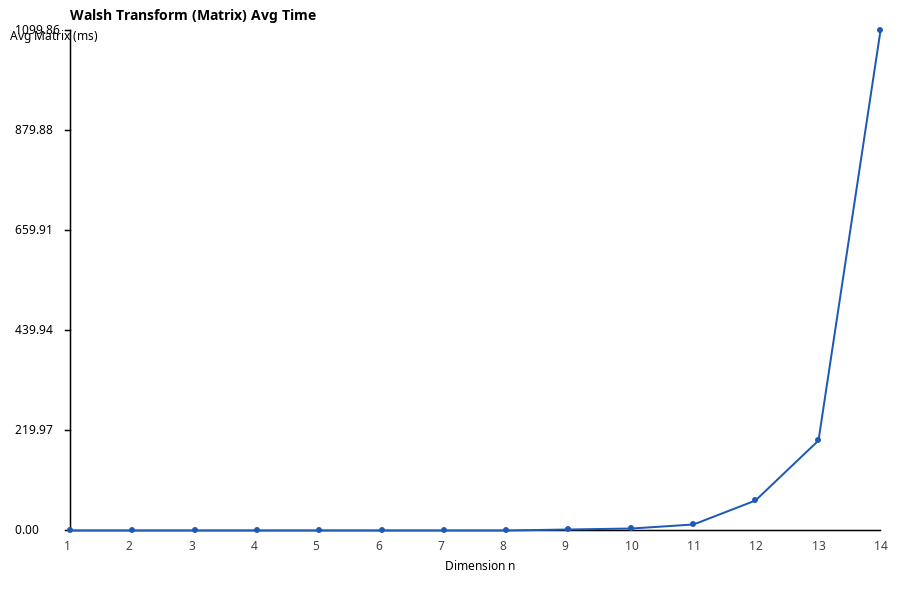
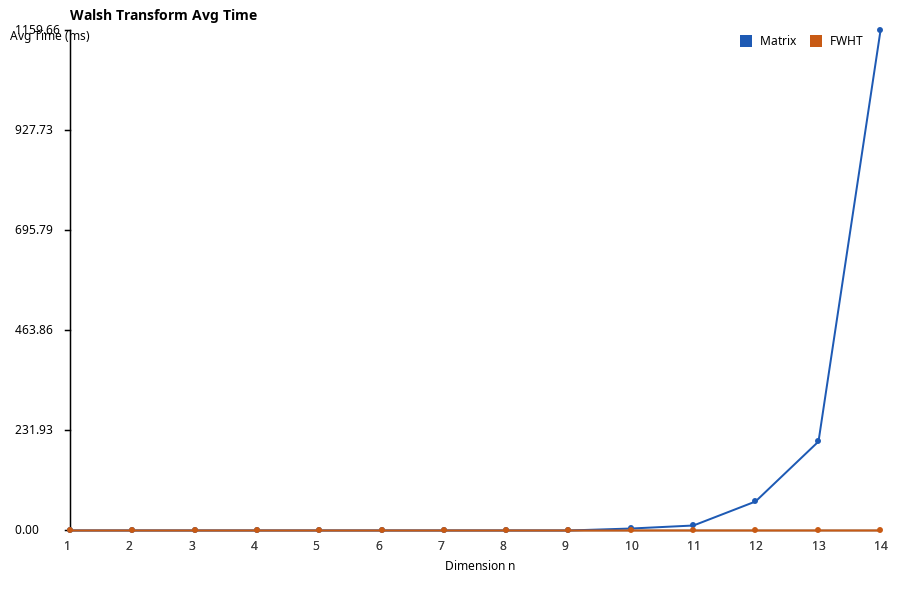
Program to compare result between FWHT and normal WHT, and benchmark FWHT

diff --git a/src/main/java/com/walshtransform/WalshTransformBenchmark.java b/src/main/java/com/walshtransform/WalshTransformBenchmark.java
@@ -38,15 +38,16 @@ public class WalshTransformBenchmark {
         System.out.printf("Random max value Q: %.4f%n", config.maxValue);
         System.out.printf("Samples per dimension: %d%n%n", config.samples);
 
-        System.out.printf("%-10s | %-12s | %-18s%n",
-            "Dimension", "States", "Avg Matrix (ms)");
-        System.out.println("------------------------------------------------------------");
+        System.out.printf("%-10s | %-12s | %-18s | %-18s%n",
+            "Dimension", "States", "Avg Matrix (ms)", "Avg FWHT (ms)");
+        System.out.println("----------------------------------------------------------------------------------");
 
         List<BenchmarkResult> results = new ArrayList<>();
 
         for (int n = config.nStart; n <= config.nEnd; n++) {
             int size = BinaryVectorUtils.checkedPowerOfTwo(n);
             double totalMatrixNs = 0.0;
+            double totalFwhtNs = 0.0;
 
             for (int i = 0; i < config.samples; i++) {
                 BlackBoxFunction f = new RandomBlackBox(n, config.maxValue);
@@ -56,17 +57,23 @@ public class WalshTransformBenchmark {
                 long endMatrix = System.nanoTime();
                 totalMatrixNs += (endMatrix - startMatrix);
 
+                long startFwht = System.nanoTime();
+                FastWalshTransformer.calculateWalshCoefficients(f);
+                long endFwht = System.nanoTime();
+                totalFwhtNs += (endFwht - startFwht);
+
             }
 
             double avgMatrixMs = totalMatrixNs / config.samples / 1_000_000.0;
+            double avgFwhtMs = totalFwhtNs / config.samples / 1_000_000.0;
 
-            results.add(new BenchmarkResult(n, size, avgMatrixMs));
+            results.add(new BenchmarkResult(n, size, avgMatrixMs, avgFwhtMs));
 
-            System.out.printf("%-10d | %-12d | %-18.4f%n",
-                    n, size, avgMatrixMs);
+            System.out.printf("%-10d | %-12d | %-18.4f | %-18.4f%n",
+                    n, size, avgMatrixMs, avgFwhtMs);
         }
 
-        System.out.println("------------------------------------------------------------");
+        System.out.println("----------------------------------------------------------------------------------");
         writeCsv(results, config.csvPath);
         writeChartImage(results, config.chartPath);
         System.out.println("Done.");
@@ -74,10 +81,11 @@ public class WalshTransformBenchmark {
 
     private static void writeCsv(List<BenchmarkResult> results, String csvPath) {
         try (BufferedWriter writer = new BufferedWriter(new FileWriter(csvPath))) {
-            writer.write("dimension,states,avg_matrix_ms");
+            writer.write("dimension,states,avg_matrix_ms,avg_fwht_ms");
             writer.newLine();
             for (BenchmarkResult result : results) {
-                writer.write(result.dimension + "," + result.states + "," + String.format("%.6f", result.avgMatrixMs));
+                writer.write(result.dimension + "," + result.states + "," + String.format("%.6f", result.avgMatrixMs)
+                    + "," + String.format("%.6f", result.avgFwhtMs));
                 writer.newLine();
             }
             System.out.println("CSV written to: " + csvPath);
@@ -95,9 +103,7 @@ public class WalshTransformBenchmark {
         int minDimension = results.get(0).dimension;
         int maxDimension = results.get(0).dimension;
         for (BenchmarkResult result : results) {
-            if (result.avgMatrixMs > maxValue) {
-                maxValue = result.avgMatrixMs;
-            }
+            maxValue = Math.max(maxValue, Math.max(result.avgMatrixMs, result.avgFwhtMs));
             if (result.dimension < minDimension) {
                 minDimension = result.dimension;
             }
@@ -131,11 +137,11 @@ public class WalshTransformBenchmark {
         g.drawLine(left, top + plotHeight, left + plotWidth, top + plotHeight);
 
         g.setFont(new Font("SansSerif", Font.BOLD, 14));
-        g.drawString("Walsh Transform (Matrix) Avg Time", left, top - 10);
+        g.drawString("Walsh Transform Avg Time", left, top - 10);
 
         g.setFont(new Font("SansSerif", Font.PLAIN, 12));
         g.drawString("Dimension n", left + (plotWidth / 2) - 30, top + plotHeight + 40);
-        g.drawString("Avg Matrix (ms)", 10, top + 10);
+        g.drawString("Avg Time (ms)", 10, top + 10);
 
         int yTicks = 5;
         for (int i = 0; i <= yTicks; i++) {
@@ -146,32 +152,23 @@ public class WalshTransformBenchmark {
             g.drawString(String.format("%.2f", value), 15, y + 4);
         }
 
-        g.setColor(new Color(30, 90, 180));
         g.setStroke(new BasicStroke(2.0f));
+        Color matrixColor = new Color(30, 90, 180);
+        Color fwhtColor = new Color(200, 90, 20);
 
-        int prevX = -1;
-        int prevY = -1;
-        for (BenchmarkResult result : results) {
-            int x;
-            if (minDimension == maxDimension) {
-                x = left + plotWidth / 2;
-            } else {
-                x = left + (int) Math.round(((result.dimension - minDimension) / (double) (maxDimension - minDimension)) * plotWidth);
-            }
-            int y = top + plotHeight - (int) Math.round((result.avgMatrixMs / maxValue) * plotHeight);
+        drawSeries(g, results, minDimension, maxDimension, maxValue, left, top, plotWidth, plotHeight,
+            matrixColor, true);
+        drawSeries(g, results, minDimension, maxDimension, maxValue, left, top, plotWidth, plotHeight,
+            fwhtColor, false);
 
-            if (prevX >= 0) {
-                g.drawLine(prevX, prevY, x, y);
-            }
-
-            g.fillOval(x - 3, y - 3, 6, 6);
-            g.setColor(Color.DARK_GRAY);
-            g.drawString(String.valueOf(result.dimension), x - 6, top + plotHeight + 20);
-            g.setColor(new Color(30, 90, 180));
-
-            prevX = x;
-            prevY = y;
-        }
+        g.setColor(matrixColor);
+        g.fillRect(left + plotWidth - 140, top + 5, 12, 12);
+        g.setColor(Color.BLACK);
+        g.drawString("Matrix", left + plotWidth - 120, top + 15);
+        g.setColor(fwhtColor);
+        g.fillRect(left + plotWidth - 70, top + 5, 12, 12);
+        g.setColor(Color.BLACK);
+        g.drawString("FWHT", left + plotWidth - 50, top + 15);
 
         g.dispose();
 
@@ -187,11 +184,55 @@ public class WalshTransformBenchmark {
         private final int dimension;
         private final int states;
         private final double avgMatrixMs;
+        private final double avgFwhtMs;
 
-        private BenchmarkResult(int dimension, int states, double avgMatrixMs) {
+        private BenchmarkResult(int dimension, int states, double avgMatrixMs, double avgFwhtMs) {
             this.dimension = dimension;
             this.states = states;
             this.avgMatrixMs = avgMatrixMs;
+            this.avgFwhtMs = avgFwhtMs;
+        }
+    }
+
+    private static void drawSeries(
+        Graphics2D g,
+        List<BenchmarkResult> results,
+        int minDimension,
+        int maxDimension,
+        double maxValue,
+        int left,
+        int top,
+        int plotWidth,
+        int plotHeight,
+        Color color,
+        boolean matrixSeries) {
+
+        g.setColor(color);
+        int prevX = -1;
+        int prevY = -1;
+
+        for (BenchmarkResult result : results) {
+            int x;
+            if (minDimension == maxDimension) {
+                x = left + plotWidth / 2;
+            } else {
+                x = left + (int) Math.round(((result.dimension - minDimension)
+                    / (double) (maxDimension - minDimension)) * plotWidth);
+            }
+            double value = matrixSeries ? result.avgMatrixMs : result.avgFwhtMs;
+            int y = top + plotHeight - (int) Math.round((value / maxValue) * plotHeight);
+
+            if (prevX >= 0) {
+                g.drawLine(prevX, prevY, x, y);
+            }
+
+            g.fillOval(x - 3, y - 3, 6, 6);
+            g.setColor(Color.DARK_GRAY);
+            g.drawString(String.valueOf(result.dimension), x - 6, top + plotHeight + 20);
+            g.setColor(color);
+
+            prevX = x;
+            prevY = y;
         }
     }
 

diff --git a/src/main/java/com/walshtransform/WalshTransformFwhtCheck.java b/src/main/java/com/walshtransform/WalshTransformFwhtCheck.java
@@ -1,0 +1,118 @@
+package com.walshtransform;
+
+import java.util.Arrays;
+import java.util.Scanner;
+
+public final class WalshTransformFwhtCheck {
+    private static final double DEFAULT_EPSILON = 1e-12;
+
+    private WalshTransformFwhtCheck() {
+        // Utility class; prevent instantiation.
+    }
+
+    public static void main(String[] args) {
+        Scanner scanner = new Scanner(System.in);
+
+        int n;
+        double maxValue;
+        double epsilon;
+
+        if (args.length >= 2) {
+            n = Integer.parseInt(args[0]);
+            maxValue = Double.parseDouble(args[1]);
+            epsilon = (args.length >= 3) ? Double.parseDouble(args[2]) : DEFAULT_EPSILON;
+        } else {
+            System.out.print("Input dimension (n): ");
+            n = scanner.nextInt();
+
+            System.out.print("Input maximum value (Q): ");
+            maxValue = scanner.nextDouble();
+            scanner.nextLine();
+
+            System.out.print("Input epsilon (press Enter for default " + DEFAULT_EPSILON + "): ");
+            String epsilonInput = scanner.nextLine();
+            epsilon = epsilonInput.isBlank() ? DEFAULT_EPSILON : Double.parseDouble(epsilonInput);
+        }
+
+        BlackBoxFunction f = new RandomBlackBox(n, maxValue);
+        double[] matrixWeights = WalshTransformer.computeWeights(f);
+        double[] fwhtWeights = FastWalshTransformer.calculateWalshCoefficients(f);
+
+        int totalStates = matrixWeights.length;
+        ComparisonResult result = compare(matrixWeights, fwhtWeights, epsilon);
+
+        System.out.println("\n--- FWHT vs Matrix Walsh Transform ---");
+        System.out.println("Dimension: " + n + ", states: " + totalStates);
+        System.out.println("Epsilon: " + epsilon);
+
+        System.out.printf("\n%-10s | %-20s | %-20s | %-10s%n",
+            "Index k", "Matrix Method", "FWHT Method", "Status");
+        System.out.println("----------------------------------------------------------------------------------");
+
+        int displayLimit = Math.min(totalStates, 20);
+        boolean isCorrect = true;
+        for (int k = 0; k < totalStates; k++) {
+            double diff = Math.abs(matrixWeights[k] - fwhtWeights[k]);
+            boolean match = diff < epsilon;
+            if (!match) {
+                isCorrect = false;
+            }
+
+            if (k < displayLimit) {
+                System.out.printf("%-10d | %-20.10f | %-20.10f | %-10s%n",
+                    k, matrixWeights[k], fwhtWeights[k], match ? "MATCH" : "FAIL");
+            }
+        }
+
+        if (totalStates > displayLimit) {
+            System.out.println("... and " + (totalStates - displayLimit) + " other coefficients.");
+        }
+
+        System.out.println("----------------------------------------------------------------------------------");
+        System.out.println("RESULT: " + (isCorrect ? "SUCCESS - Both methods match!" : "FAILURE - There are discrepancies!"));
+        System.out.println("Max difference: " + result.maxDiff + " at index " + result.maxDiffIndex);
+
+        scanner.close();
+    }
+
+    private static ComparisonResult compare(double[] matrixWeights, double[] fwhtWeights, double epsilon) {
+        int size = matrixWeights.length;
+        if (fwhtWeights.length != size) {
+            throw new IllegalArgumentException("weight arrays must have the same length");
+        }
+
+        boolean match = true;
+        double maxDiff = 0.0;
+        int maxDiffIndex = -1;
+        int[] mismatches = new int[size];
+        int mismatchCount = 0;
+
+        for (int i = 0; i < size; i++) {
+            double diff = Math.abs(matrixWeights[i] - fwhtWeights[i]);
+            if (diff > maxDiff) {
+                maxDiff = diff;
+                maxDiffIndex = i;
+            }
+            if (diff > epsilon) {
+                match = false;
+                mismatches[mismatchCount++] = i;
+            }
+        }
+
+        return new ComparisonResult(match, maxDiff, maxDiffIndex, Arrays.copyOf(mismatches, mismatchCount));
+    }
+
+    private static final class ComparisonResult {
+        private final boolean match;
+        private final double maxDiff;
+        private final int maxDiffIndex;
+        private final int[] mismatchIndices;
+
+        private ComparisonResult(boolean match, double maxDiff, int maxDiffIndex, int[] mismatchIndices) {
+            this.match = match;
+            this.maxDiff = maxDiff;
+            this.maxDiffIndex = maxDiffIndex;
+            this.mismatchIndices = mismatchIndices;
+        }
+    }
+}

diff --git a/README.md b/README.md
@@ -7,9 +7,11 @@ Java library project built with Maven and Java 17 for calculating Walsh transfor
 - **HadamardMatrix**: generates Sylvester-type Hadamard matrices of order `2^n`.
 - **WalshTransformer**: computes Walsh coefficients using the Hadamard matrix method.
 - **WalshTransformerDirect**: computes Walsh coefficients using the direct summation method.
+- **FastWalshTransformer**: computes Walsh coefficients using the Fast Walsh-Hadamard Transform (FWHT).
 - **BlackBoxFunction**: abstract base class and random implementation for black-box function evaluation over integer vectors.
 - **Main**: Interactive CLI application to test and compare both Walsh transform methods.
-- **WalshTransformBenchmark**: benchmark runner that averages matrix-method timing across dimensions and outputs CSV and PNG chart.
+- **WalshTransformBenchmark**: benchmark runner that averages matrix and FWHT timing across dimensions and outputs CSV and PNG chart.
+- **WalshTransformFwhtCheck**: CLI checker to compare FWHT and matrix results with a per-index table.
 - JUnit 5 tests to verify the correctness of the matrix generation and transformations.
 
 ## Project Structure
@@ -19,9 +21,11 @@ Java library project built with Maven and Java 17 for calculating Walsh transfor
 - `src/main/java/com/walshtransform/RandomBlackBox.java`
 - `src/main/java/com/walshtransform/WalshTransformer.java`
 - `src/main/java/com/walshtransform/WalshTransformerDirect.java`
+- `src/main/java/com/walshtransform/FastWalshTransformer.java`
 - `src/main/java/com/walshtransform/BinaryVectorUtils.java`
 - `src/main/java/com/walshtransform/Main.java`
 - `src/main/java/com/walshtransform/WalshTransformBenchmark.java`
+- `src/main/java/com/walshtransform/WalshTransformFwhtCheck.java`
 
 ## Requirements
 
@@ -74,6 +78,34 @@ java -cp target/classes com.walshtransform.WalshTransformBenchmark 2 10 1.0 5 re
 ```
 
 The benchmark writes a CSV file and a PNG line chart to visualize how average time grows with dimension.
+
+The CSV columns are:
+
+- `dimension`
+- `states`
+- `avg_matrix_ms`
+- `avg_fwht_ms`
+
+## Comparing FWHT vs Matrix
+
+Build the project and run the FWHT comparison CLI:
+
+```bash
+mvn -q -DskipTests package
+java -cp target/classes com.walshtransform.WalshTransformFwhtCheck
+```
+
+You can also pass arguments:
+
+```bash
+java -cp target/classes com.walshtransform.WalshTransformFwhtCheck n Q [epsilon]
+```
+
+Example:
+
+```bash
+java -cp target/classes com.walshtransform.WalshTransformFwhtCheck 6 1.0 1e-12
+```
 
 ## Notes
 
